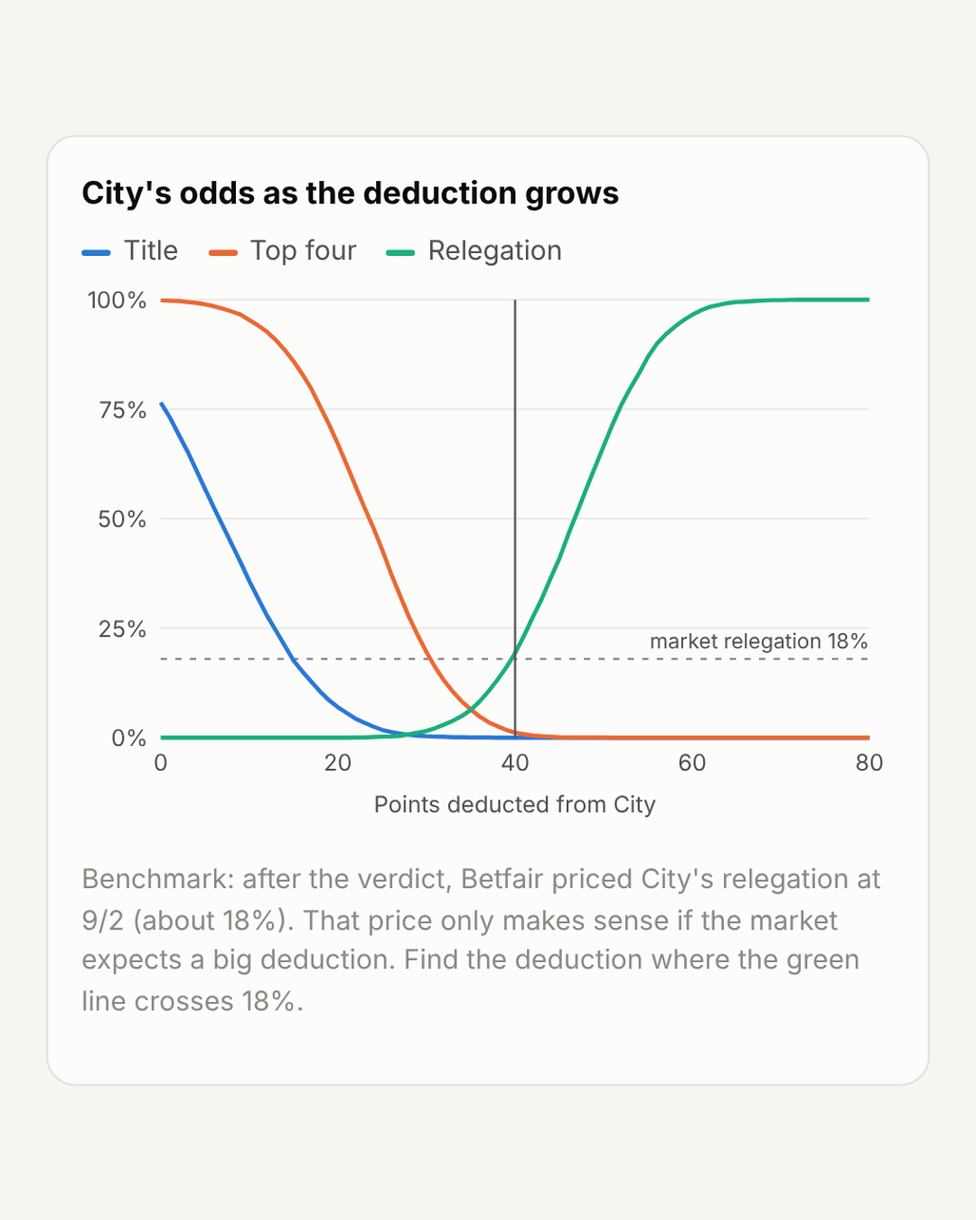
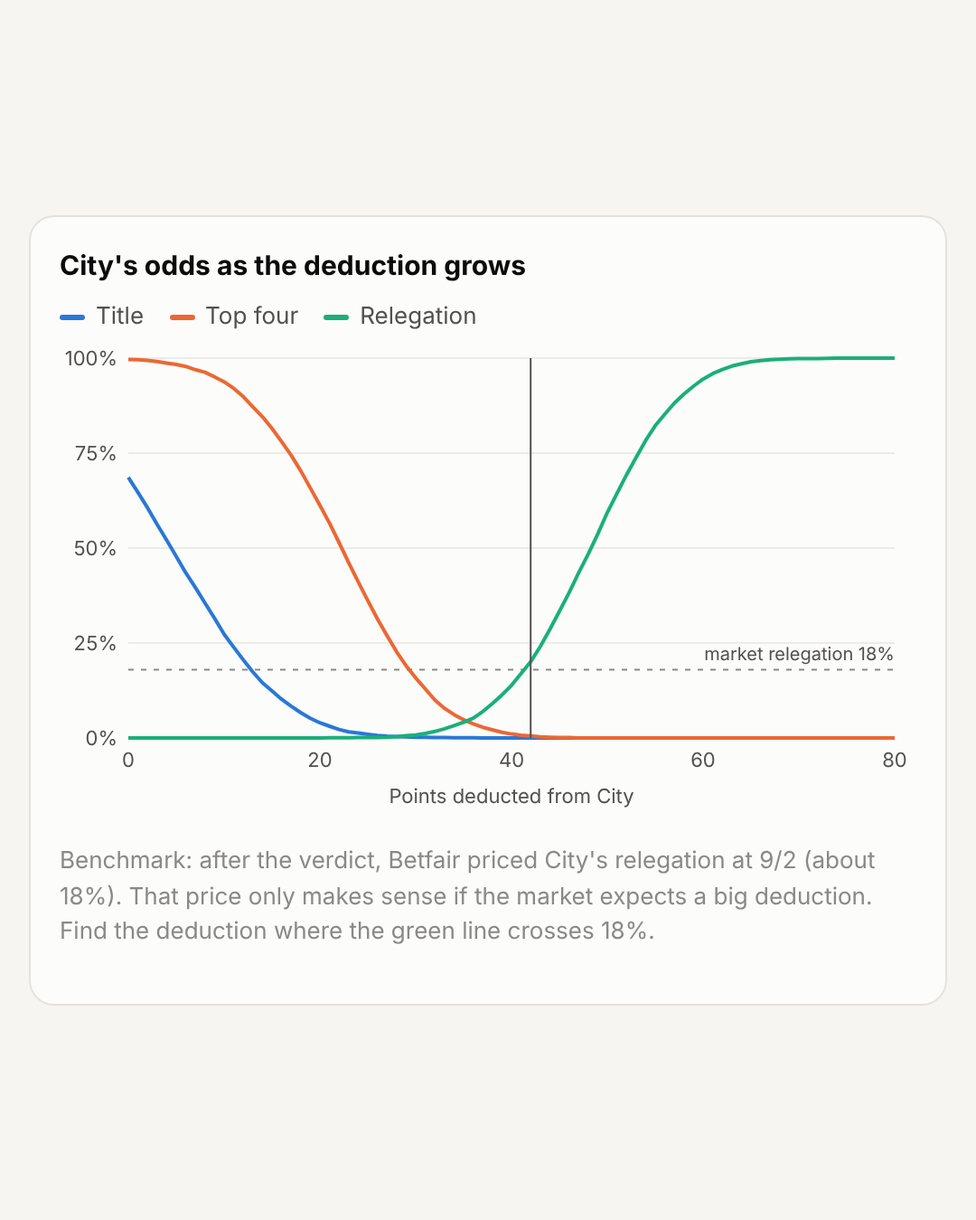
Update deduction simulator to matchweek 7 and close out scoreboard results
Simulator: table after MW7 (City 21, Arsenal 18), ratings refit on MW7 + MW8 odds, MW8 real fixtures, regenerated images. Scoreboard: final results for all 33 logged picks, ALCS G4 moved to its rain-delayed date.

Claude-Session: https://claude.ai/code/session_015VHLP84VSgbxxyaBq6iySi

diff --git a/model-scoreboard/index.html b/model-scoreboard/index.html
@@ -55,7 +55,7 @@ button{font:inherit;font-weight:700;font-size:13px;color:var(--txt);background:v
 <p class="note"><b>How it's scored.</b> Each pick is logged before kickoff. "Hit rate" = the model's most likely outcome happened (draws count for soccer). "Skill" = how much better its probabilities were than a naive home-win-rate guess (Brier score; soccer uses the 3-way RPS, as in the backtests). The white marker on each bar is that model's backtested skill; filling past it means it's beating its own track record. Soccer picks marked BACKDATED (10–12 Oct) were generated on 11 Oct using only data from before the 10 Oct kickoffs — no results from that weekend went in — so they're fair predictions, just not logged in advance like the rest. A handful of games is mostly luck — read it as a scoreboard, not proof. Live scores: ESPN's public scoreboard feed, refreshed every 60 seconds while this page is open.</p>
 </main>
 <script>
-const DATA = {"games":[{"sport":"NFL","date":"2026-10-11","home":"LAC","away":"DEN","label":"DEN @ LAC","p":[0.43618694584839,0.56381305415161],"mkt":[0.3690596562184025,0.6309403437815975],"snap":{"state":"post","hs":17,"as":23,"detail":"Final"}},{"sport":"NFL","date":"2026-10-11","home":"ARI","away":"DET","label":"DET @ ARI","p":[0.3610490859684876,0.6389509140315124],"mkt":[0.30423004792665137,0.6957699520733487],"snap":{"state":"post","hs":21,"as":45,"detail":"Final"}},{"sport":"NFL","date":"2026-10-11","home":"SEA","away":"SF","label":"SF @ SEA","p":[0.5711223757139174,0.42887762428608256],"mkt":[0.5996387718242023,0.40036122817579767],"snap":{"state":"post","hs":29,"as":32,"detail":"Final"}},{"sport":"NFL","date":"2026-10-11","home":"ATL","away":"BAL","label":"BAL @ ATL","p":[0.4159232285502734,0.5840767714497266],"mkt":[0.6092362344582594,0.39076376554174064],"snap":{"state":"post","hs":23,"as":30,"detail":"Final"}},{"sport":"NFL","date":"2026-10-12","home":"LAR","away":"BUF","label":"BUF @ LA","p":[0.5541986401184689,0.44580135988153113],"mkt":[0.6092362344582594,0.39076376554174064],"snap":{"state":"post","hs":34,"as":37,"detail":"Final"}},{"sport":"MLB","date":"2026-10-11","home":"MIL","away":"LAD","label":"NLCS G1 \u00b7 LAD @ MIL","p":[0.5397274817394615,0.4602725182605385],"snap":{"state":"post","hs":2,"as":1,"detail":"Final"}},{"sport":"MLB","date":"2026-10-12","home":"MIL","away":"LAD","label":"NLCS G2 \u00b7 LAD @ MIL","p":[0.5397274817394615,0.4602725182605385],"snap":{"state":"post","hs":7,"as":4,"detail":"Final"}},{"sport":"MLB","date":"2026-10-12","home":"TB","away":"CLE","label":"ALCS G1 \u00b7 CLE @ TB","p":[0.5736785067166985,0.4263214932833015],"snap":{"state":"post","hs":3,"as":7,"detail":"Final"}},{"sport":"MLB","date":"2026-10-13","home":"TB","away":"CLE","label":"ALCS G2 \u00b7 CLE @ TB","p":[0.5736785067166985,0.4263214932833015],"snap":{"state":"pre","hs":null,"as":null,"detail":""}},{"sport":"MLB","date":"2026-10-14","home":"LAD","away":"MIL","label":"NLCS G3 \u00b7 MIL @ LAD","p":[0.520177634954967,0.47982236504503295],"snap":{"state":"pre","hs":null,"as":null,"detail":""}},{"sport":"MLB","date":"2026-10-15","home":"LAD","away":"MIL","label":"NLCS G4 \u00b7 MIL @ LAD","p":[0.520177634954967,0.47982236504503295],"snap":{"state":"pre","hs":null,"as":null,"detail":""}},{"sport":"MLB","date":"2026-10-15","home":"CLE","away":"TB","label":"ALCS G3 \u00b7 TB @ CLE","p":[0.48578498023542893,0.5142150197645711],"snap":{"state":"pre","hs":null,"as":null,"detail":""}},{"sport":"MLB","date":"2026-10-16","home":"CLE","away":"TB","label":"ALCS G4 \u00b7 TB @ CLE","p":[0.48578498023542893,0.5142150197645711],"snap":{"state":"pre","hs":null,"as":null,"detail":""}},{"sport":"EPL","date":"2026-10-10","home":"Man United","away":"Tottenham","label":"Man United v Tottenham","p":[0.5776567645428594,0.24293384085505176,0.1794093946020887],"homeAlias":["Manchester United","Man United","Man Utd"],"awayAlias":["Tottenham Hotspur","Tottenham","Spurs"],"backdated":true,"snap":{"state":"post","hs":1,"as":1,"detail":"Final"}},{"sport":"EPL","date":"2026-10-10","home":"Sunderland","away":"Brighton","label":"Sunderland v Brighton","p":[0.2958006445758089,0.2638575508928056,0.44034180453138544],"homeAlias":["Sunderland"],"awayAlias":["Brighton & Hove Albion","Brighton"],"backdated":true,"snap":{"state":"post","hs":0,"as":2,"detail":"Final"}},{"sport":"EPL","date":"2026-10-10","home":"Ipswich","away":"Fulham","label":"Ipswich v Fulham","p":[0.3179053455729962,0.27956723050251775,0.402527423924486],"homeAlias":["Ipswich Town","Ipswich"],"awayAlias":["Fulham"],"backdated":true,"snap":{"state":"post","hs":2,"as":1,"detail":"Final"}},{"sport":"EPL","date":"2026-10-10","home":"Chelsea","away":"Bournemouth","label":"Chelsea v Bournemouth","p":[0.4100751831695971,0.2728282983578527,0.31709651847255016],"homeAlias":["Chelsea"],"awayAlias":["AFC Bournemouth","Bournemouth"],"backdated":true,"snap":{"state":"post","hs":5,"as":1,"detail":"Final"}},{"sport":"EPL","date":"2026-10-10","home":"Aston Villa","away":"Brentford","label":"Aston Villa v Brentford","p":[0.38659155693282415,0.28887805529448846,0.3245303877726874],"homeAlias":["Aston Villa"],"awayAlias":["Brentford"],"backdated":true,"snap":{"state":"post","hs":2,"as":2,"detail":"Final"}},{"sport":"EPL","date":"2026-10-10","home":"Arsenal","away":"Leeds","label":"Arsenal v Leeds","p":[0.6881947515461766,0.20711317617778502,0.10469207227603841],"homeAlias":["Arsenal"],"awayAlias":["Leeds United","Leeds"],"backdated":true,"snap":{"state":"post","hs":2,"as":1,"detail":"Final"}},{"sport":"EPL","date":"2026-10-11","home":"Liverpool","away":"Man City","label":"Liverpool v Man City","p":[0.38887169504607233,0.26248048657069617,0.34864781838323156],"homeAlias":["Liverpool"],"awayAlias":["Manchester City","Man City"],"backdated":true,"snap":{"state":"post","hs":0,"as":3,"detail":"Final"}},{"sport":"EPL","date":"2026-10-11","home":"Hull","away":"Everton","label":"Hull v Everton","p":[0.2534389798833081,0.25975564549296015,0.48680537462373186],"homeAlias":["Hull City","Hull"],"awayAlias":["Everton"],"backdated":true,"snap":{"state":"post","hs":2,"as":2,"detail":"Final"}},{"sport":"EPL","date":"2026-10-11","home":"Crystal Palace","away":"Nott'm Forest","label":"Crystal Palace v Nott'm Forest","p":[0.4034569292809711,0.2887230157890111,0.3078200549300179],"homeAlias":["Crystal Palace"],"awayAlias":["Nottingham Forest","Nott'm Forest","Nottm Forest"],"backdated":true,"snap":{"state":"post","hs":3,"as":1,"detail":"Final"}},{"sport":"EPL","date":"2026-10-12","home":"Coventry","away":"Newcastle","label":"Coventry v Newcastle","p":[0.3420068167724029,0.26407963472152146,0.3939135485060757],"homeAlias":["Coventry City","Coventry"],"awayAlias":["Newcastle United","Newcastle"],"backdated":true,"snap":{"state":"post","hs":4,"as":1,"detail":"Final"}},{"sport":"EPL","date":"2026-10-17","home":"Newcastle","away":"Aston Villa","label":"Newcastle v Aston Villa","p":[0.413562610179653,0.28918240201902046,0.2972549878013266],"homeAlias":["Newcastle United","Newcastle"],"awayAlias":["Aston Villa"]},{"sport":"EPL","date":"2026-10-17","home":"Man City","away":"Ipswich","label":"Man City v Ipswich","p":[0.7625680365206376,0.16780593897761403,0.06962602450174829],"homeAlias":["Manchester City","Man City"],"awayAlias":["Ipswich Town","Ipswich"]},{"sport":"EPL","date":"2026-10-17","home":"Fulham","away":"Hull","label":"Fulham v Hull","p":[0.5988247092008374,0.24137699868667767,0.15979829211248484],"homeAlias":["Fulham"],"awayAlias":["Hull City","Hull"]},{"sport":"EPL","date":"2026-10-17","home":"Brentford","away":"Liverpool","label":"Brentford v Liverpool","p":[0.329748011977613,0.25037100363587894,0.419880984386508],"homeAlias":["Brentford"],"awayAlias":["Liverpool"]},{"sport":"EPL","date":"2026-10-17","home":"Everton","away":"Chelsea","label":"Everton v Chelsea","p":[0.3521918569506102,0.3098018522572463,0.3380062907921434],"homeAlias":["Everton"],"awayAlias":["Chelsea"]},{"sport":"EPL","date":"2026-10-18","home":"Nott'm Forest","away":"Arsenal","label":"Nott'm Forest v Arsenal","p":[0.20251035527927086,0.25902759008137266,0.5384620546393565],"homeAlias":["Nottingham Forest","Nott'm Forest","Nottm Forest"],"awayAlias":["Arsenal"]},{"sport":"EPL","date":"2026-10-18","home":"Leeds","away":"Man United","label":"Leeds v Man United","p":[0.3492312508496449,0.2721058019007721,0.378662947249583],"homeAlias":["Leeds United","Leeds"],"awayAlias":["Manchester United","Man United","Man Utd"]},{"sport":"EPL","date":"2026-10-18","home":"Brighton","away":"Crystal Palace","label":"Brighton v Crystal Palace","p":[0.609449705228149,0.2194520940949486,0.17109820067690235],"homeAlias":["Brighton & Hove Albion","Brighton"],"awayAlias":["Crystal Palace"]},{"sport":"EPL","date":"2026-10-18","home":"Bournemouth","away":"Sunderland","label":"Bournemouth v Sunderland","p":[0.5471304212462732,0.25963632423519684,0.19323325451853],"homeAlias":["AFC Bournemouth","Bournemouth"],"awayAlias":["Sunderland"]},{"sport":"EPL","date":"2026-10-19","home":"Tottenham","away":"Coventry","label":"Tottenham v Coventry","p":[0.5308224763793596,0.255881646957799,0.21329587666284136],"homeAlias":["Tottenham Hotspur","Tottenham","Spurs"],"awayAlias":["Coventry City","Coventry"]}],"backtest":{"EPL":{"model":13.932382595760945,"market":15.124422123352804},"NFL":{"model":11.016982057212156,"market":15.696468345735038},"MLB":{"model":2.163976929721866,"market":2.9306156096931364}},"snapshot":"2026-10-13T14:01:00-04:00"};
+const DATA = {"games":[{"sport":"NFL","date":"2026-10-11","home":"LAC","away":"DEN","label":"DEN @ LAC","p":[0.43618694584839,0.56381305415161],"mkt":[0.3690596562184025,0.6309403437815975],"snap":{"state":"post","hs":17,"as":23,"detail":"Final"}},{"sport":"NFL","date":"2026-10-11","home":"ARI","away":"DET","label":"DET @ ARI","p":[0.3610490859684876,0.6389509140315124],"mkt":[0.30423004792665137,0.6957699520733487],"snap":{"state":"post","hs":21,"as":45,"detail":"Final"}},{"sport":"NFL","date":"2026-10-11","home":"SEA","away":"SF","label":"SF @ SEA","p":[0.5711223757139174,0.42887762428608256],"mkt":[0.5996387718242023,0.40036122817579767],"snap":{"state":"post","hs":29,"as":32,"detail":"Final"}},{"sport":"NFL","date":"2026-10-11","home":"ATL","away":"BAL","label":"BAL @ ATL","p":[0.4159232285502734,0.5840767714497266],"mkt":[0.6092362344582594,0.39076376554174064],"snap":{"state":"post","hs":23,"as":30,"detail":"Final"}},{"sport":"NFL","date":"2026-10-12","home":"LAR","away":"BUF","label":"BUF @ LA","p":[0.5541986401184689,0.44580135988153113],"mkt":[0.6092362344582594,0.39076376554174064],"snap":{"state":"post","hs":34,"as":37,"detail":"Final"}},{"sport":"MLB","date":"2026-10-11","home":"MIL","away":"LAD","label":"NLCS G1 \u00b7 LAD @ MIL","p":[0.5397274817394615,0.4602725182605385],"snap":{"state":"post","hs":2,"as":1,"detail":"Final"}},{"sport":"MLB","date":"2026-10-12","home":"MIL","away":"LAD","label":"NLCS G2 \u00b7 LAD @ MIL","p":[0.5397274817394615,0.4602725182605385],"snap":{"state":"post","hs":7,"as":4,"detail":"Final"}},{"sport":"MLB","date":"2026-10-12","home":"TB","away":"CLE","label":"ALCS G1 \u00b7 CLE @ TB","p":[0.5736785067166985,0.4263214932833015],"snap":{"state":"post","hs":3,"as":7,"detail":"Final"}},{"sport":"MLB","date":"2026-10-13","home":"TB","away":"CLE","label":"ALCS G2 \u00b7 CLE @ TB","p":[0.5736785067166985,0.4263214932833015],"snap":{"state":"post","hs":3,"as":1,"detail":"Final"}},{"sport":"MLB","date":"2026-10-14","home":"LAD","away":"MIL","label":"NLCS G3 \u00b7 MIL @ LAD","p":[0.520177634954967,0.47982236504503295],"snap":{"state":"post","hs":2,"as":6,"detail":"Final"}},{"sport":"MLB","date":"2026-10-15","home":"LAD","away":"MIL","label":"NLCS G4 \u00b7 MIL @ LAD","p":[0.520177634954967,0.47982236504503295],"snap":{"state":"post","hs":4,"as":6,"detail":"Final"}},{"sport":"MLB","date":"2026-10-15","home":"CLE","away":"TB","label":"ALCS G3 \u00b7 TB @ CLE","p":[0.48578498023542893,0.5142150197645711],"snap":{"state":"post","hs":3,"as":2,"detail":"Final"}},{"sport":"MLB","date":"2026-10-17","home":"CLE","away":"TB","label":"ALCS G4 \u00b7 TB @ CLE","p":[0.48578498023542893,0.5142150197645711],"snap":{"state":"post","hs":3,"as":7,"detail":"Final"}},{"sport":"EPL","date":"2026-10-10","home":"Man United","away":"Tottenham","label":"Man United v Tottenham","p":[0.5776567645428594,0.24293384085505176,0.1794093946020887],"homeAlias":["Manchester United","Man United","Man Utd"],"awayAlias":["Tottenham Hotspur","Tottenham","Spurs"],"backdated":true,"snap":{"state":"post","hs":1,"as":1,"detail":"Final"}},{"sport":"EPL","date":"2026-10-10","home":"Sunderland","away":"Brighton","label":"Sunderland v Brighton","p":[0.2958006445758089,0.2638575508928056,0.44034180453138544],"homeAlias":["Sunderland"],"awayAlias":["Brighton & Hove Albion","Brighton"],"backdated":true,"snap":{"state":"post","hs":0,"as":2,"detail":"Final"}},{"sport":"EPL","date":"2026-10-10","home":"Ipswich","away":"Fulham","label":"Ipswich v Fulham","p":[0.3179053455729962,0.27956723050251775,0.402527423924486],"homeAlias":["Ipswich Town","Ipswich"],"awayAlias":["Fulham"],"backdated":true,"snap":{"state":"post","hs":2,"as":1,"detail":"Final"}},{"sport":"EPL","date":"2026-10-10","home":"Chelsea","away":"Bournemouth","label":"Chelsea v Bournemouth","p":[0.4100751831695971,0.2728282983578527,0.31709651847255016],"homeAlias":["Chelsea"],"awayAlias":["AFC Bournemouth","Bournemouth"],"backdated":true,"snap":{"state":"post","hs":5,"as":1,"detail":"Final"}},{"sport":"EPL","date":"2026-10-10","home":"Aston Villa","away":"Brentford","label":"Aston Villa v Brentford","p":[0.38659155693282415,0.28887805529448846,0.3245303877726874],"homeAlias":["Aston Villa"],"awayAlias":["Brentford"],"backdated":true,"snap":{"state":"post","hs":2,"as":2,"detail":"Final"}},{"sport":"EPL","date":"2026-10-10","home":"Arsenal","away":"Leeds","label":"Arsenal v Leeds","p":[0.6881947515461766,0.20711317617778502,0.10469207227603841],"homeAlias":["Arsenal"],"awayAlias":["Leeds United","Leeds"],"backdated":true,"snap":{"state":"post","hs":2,"as":1,"detail":"Final"}},{"sport":"EPL","date":"2026-10-11","home":"Liverpool","away":"Man City","label":"Liverpool v Man City","p":[0.38887169504607233,0.26248048657069617,0.34864781838323156],"homeAlias":["Liverpool"],"awayAlias":["Manchester City","Man City"],"backdated":true,"snap":{"state":"post","hs":0,"as":3,"detail":"Final"}},{"sport":"EPL","date":"2026-10-11","home":"Hull","away":"Everton","label":"Hull v Everton","p":[0.2534389798833081,0.25975564549296015,0.48680537462373186],"homeAlias":["Hull City","Hull"],"awayAlias":["Everton"],"backdated":true,"snap":{"state":"post","hs":2,"as":2,"detail":"Final"}},{"sport":"EPL","date":"2026-10-11","home":"Crystal Palace","away":"Nott'm Forest","label":"Crystal Palace v Nott'm Forest","p":[0.4034569292809711,0.2887230157890111,0.3078200549300179],"homeAlias":["Crystal Palace"],"awayAlias":["Nottingham Forest","Nott'm Forest","Nottm Forest"],"backdated":true,"snap":{"state":"post","hs":3,"as":1,"detail":"Final"}},{"sport":"EPL","date":"2026-10-12","home":"Coventry","away":"Newcastle","label":"Coventry v Newcastle","p":[0.3420068167724029,0.26407963472152146,0.3939135485060757],"homeAlias":["Coventry City","Coventry"],"awayAlias":["Newcastle United","Newcastle"],"backdated":true,"snap":{"state":"post","hs":4,"as":1,"detail":"Final"}},{"sport":"EPL","date":"2026-10-17","home":"Newcastle","away":"Aston Villa","label":"Newcastle v Aston Villa","p":[0.413562610179653,0.28918240201902046,0.2972549878013266],"homeAlias":["Newcastle United","Newcastle"],"awayAlias":["Aston Villa"],"snap":{"state":"post","hs":0,"as":1,"detail":"Final"}},{"sport":"EPL","date":"2026-10-17","home":"Man City","away":"Ipswich","label":"Man City v Ipswich","p":[0.7625680365206376,0.16780593897761403,0.06962602450174829],"homeAlias":["Manchester City","Man City"],"awayAlias":["Ipswich Town","Ipswich"],"snap":{"state":"post","hs":3,"as":2,"detail":"Final"}},{"sport":"EPL","date":"2026-10-17","home":"Fulham","away":"Hull","label":"Fulham v Hull","p":[0.5988247092008374,0.24137699868667767,0.15979829211248484],"homeAlias":["Fulham"],"awayAlias":["Hull City","Hull"],"snap":{"state":"post","hs":1,"as":0,"detail":"Final"}},{"sport":"EPL","date":"2026-10-17","home":"Brentford","away":"Liverpool","label":"Brentford v Liverpool","p":[0.329748011977613,0.25037100363587894,0.419880984386508],"homeAlias":["Brentford"],"awayAlias":["Liverpool"],"snap":{"state":"post","hs":1,"as":2,"detail":"Final"}},{"sport":"EPL","date":"2026-10-17","home":"Everton","away":"Chelsea","label":"Everton v Chelsea","p":[0.3521918569506102,0.3098018522572463,0.3380062907921434],"homeAlias":["Everton"],"awayAlias":["Chelsea"],"snap":{"state":"post","hs":0,"as":2,"detail":"Final"}},{"sport":"EPL","date":"2026-10-18","home":"Nott'm Forest","away":"Arsenal","label":"Nott'm Forest v Arsenal","p":[0.20251035527927086,0.25902759008137266,0.5384620546393565],"homeAlias":["Nottingham Forest","Nott'm Forest","Nottm Forest"],"awayAlias":["Arsenal"],"snap":{"state":"post","hs":0,"as":1,"detail":"Final"}},{"sport":"EPL","date":"2026-10-18","home":"Leeds","away":"Man United","label":"Leeds v Man United","p":[0.3492312508496449,0.2721058019007721,0.378662947249583],"homeAlias":["Leeds United","Leeds"],"awayAlias":["Manchester United","Man United","Man Utd"],"snap":{"state":"post","hs":1,"as":1,"detail":"Final"}},{"sport":"EPL","date":"2026-10-18","home":"Brighton","away":"Crystal Palace","label":"Brighton v Crystal Palace","p":[0.609449705228149,0.2194520940949486,0.17109820067690235],"homeAlias":["Brighton & Hove Albion","Brighton"],"awayAlias":["Crystal Palace"],"snap":{"state":"post","hs":5,"as":0,"detail":"Final"}},{"sport":"EPL","date":"2026-10-18","home":"Bournemouth","away":"Sunderland","label":"Bournemouth v Sunderland","p":[0.5471304212462732,0.25963632423519684,0.19323325451853],"homeAlias":["AFC Bournemouth","Bournemouth"],"awayAlias":["Sunderland"],"snap":{"state":"post","hs":2,"as":0,"detail":"Final"}},{"sport":"EPL","date":"2026-10-19","home":"Tottenham","away":"Coventry","label":"Tottenham v Coventry","p":[0.5308224763793596,0.255881646957799,0.21329587666284136],"homeAlias":["Tottenham Hotspur","Tottenham","Spurs"],"awayAlias":["Coventry City","Coventry"],"snap":{"state":"post","hs":3,"as":1,"detail":"Final"}}],"backtest":{"EPL":{"model":13.932382595760945,"market":15.124422123352804},"NFL":{"model":11.016982057212156,"market":15.696468345735038},"MLB":{"model":2.163976929721866,"market":2.9306156096931364}},"snapshot":"2026-10-21T11:30:00-04:00"};
 const SPORTS = {EPL:{name:"Soccer",full:"EPL · model v5",color:"var(--soc)",url:"soccer/eng.1",base:[0.44,0.25,0.31]},
                 NFL:{name:"NFL",full:"Points-rating model",color:"var(--nfl)",url:"football/nfl",base:[0.565,0.435]},
                 MLB:{name:"MLB",full:"Pythagorean model",color:"var(--mlb)",url:"baseball/mlb",base:[0.53,0.47]}};

diff --git a/city-asterisk-tables/index.html b/city-asterisk-tables/index.html
@@ -116,7 +116,7 @@ svg text{fill:var(--text2);font-size:11px}
 <section id="sim">
   <div class="card">
     <h2>2026‑27: deduction simulator</h2>
-    <p class="note" style="margin:0">Table after 6 games (City 18 pts, top). 10,000 simulated finishes of the remaining 32 games. Data as of 14 Oct 2026.</p>
+    <p class="note" style="margin:0">Table after 7 games (City 21 pts, top, 3 clear of Arsenal). 10,000 simulated finishes of the remaining 31 games. Data as of 20 Oct 2026.</p>
     <label class="sl" for="sded">Points deducted from City this season: <b id="sdedv">0</b> pts</label>
     <input id="sded" type="range" min="0" max="80" step="1" value="0">
     <div class="stats">
@@ -158,15 +158,15 @@ svg text{fill:var(--text2);font-size:11px}
     </ul>
     <h3>2026‑27 simulator</h3>
     <ul>
-      <li>Each team gets one strength rating. It blends current points per game (shrunk toward the league average, so six games don't overstate form) with the bookmaker win/draw/loss odds for this weekend's matchweek‑7 fixtures.</li>
+      <li>Each team gets one strength rating. It blends current points per game (shrunk toward the league average, so seven games don't overstate form) with bookmaker win/draw/loss odds for the last two rounds (matchweeks 7 and 8), so one awkward fixture can't swing a rating.</li>
       <li>Match outcomes use a Davidson (Bradley‑Terry with draws) model with a home-advantage term. All parameters are fitted to those odds.</li>
-      <li>Matchweek 7 uses the real fixtures. The remaining 31 games are drawn against random opponents, home or away at 50/50, because the full fixture list wasn't available. Each team is simulated independently, so results are a good estimate rather than an exact schedule replay.</li>
+      <li>Matchweek 8 uses the real fixtures. The remaining 30 games are drawn against random opponents, home or away at 50/50, because the full fixture list wasn't available. Each team is simulated independently, so results are a good estimate rather than an exact schedule replay.</li>
       <li>The deduction is applied to City's final total; their form is assumed unaffected.</li>
     </ul>
     <h3>Sources</h3>
     <ul>
       <li>Verdict reporting: The Athletic / The Times via Reuters; Sports Mole; Northeast Times (betting odds).</li>
-      <li>Current table and matchweek‑7 odds: Sportradar feed, 14 Oct 2026.</li>
+      <li>Current table: Football Web Pages, 19 Oct 2026. Matchweek‑8 odds: bets.co.za round‑8 preview, 20 Oct 2026.</li>
       <li>Historical tables: official Premier League final standings.</li>
     </ul>
   </div>
@@ -244,11 +244,11 @@ document.getElementById('hded').oninput=e=>{hded=+e.target.value;document.getEle
 renderHist();
 
 /* ---------- simulator ---------- */
-const R={"teams":[{"code":"MCI","name":"Man City","pts":18,"r":1.291},{"code":"ARS","name":"Arsenal","pts":15,"r":0.9764},{"code":"BRI","name":"Brighton","pts":13,"r":0.5631},{"code":"BRE","name":"Brentford","pts":10,"r":0.0264},{"code":"EVE","name":"Everton","pts":10,"r":-0.1191},{"code":"CFC","name":"Chelsea","pts":10,"r":0.5157},{"code":"LEE","name":"Leeds","pts":9,"r":-0.1458},{"code":"HUL","name":"Hull City","pts":9,"r":-0.3053},{"code":"LFC","name":"Liverpool","pts":9,"r":0.2685},{"code":"IPS","name":"Ipswich","pts":9,"r":-0.1825},{"code":"NEW","name":"Newcastle","pts":8,"r":-0.1924},{"code":"CRY","name":"Crystal Palace","pts":7,"r":-0.1665},{"code":"MUN","name":"Man United","pts":6,"r":0.0339},{"code":"COV","name":"Coventry","pts":6,"r":-0.6306},{"code":"NFO","name":"Nott'm Forest","pts":5,"r":-0.5798},{"code":"AVL","name":"Aston Villa","pts":5,"r":-0.1228},{"code":"SUN","name":"Sunderland","pts":4,"r":-0.4376},{"code":"BOU","name":"Bournemouth","pts":3,"r":-0.4878},{"code":"TOT","name":"Tottenham","pts":3,"r":-0.0915},{"code":"FUL","name":"Fulham","pts":2,"r":-0.2133}],"h":0.5184,"nu":0.6563};
-const MW7=[["EVE","CFC"],["BRE","LFC"],["FUL","HUL"],["MCI","IPS"],["NEW","AVL"],["BOU","SUN"],["BRI","CRY"],["LEE","MUN"],["NFO","ARS"],["TOT","COV"]];
-const T=R.teams,NT=T.length,NS=10000,REM=31;
+const R={"teams":[{"code":"MCI","name":"Man City","pts":21,"r":1.2912},{"code":"ARS","name":"Arsenal","pts":18,"r":1.1061},{"code":"BRI","name":"Brighton","pts":16,"r":0.5335},{"code":"CFC","name":"Chelsea","pts":13,"r":0.5427},{"code":"LFC","name":"Liverpool","pts":12,"r":0.5069},{"code":"BRE","name":"Brentford","pts":10,"r":0.3353},{"code":"LEE","name":"Leeds","pts":10,"r":-0.1188},{"code":"EVE","name":"Everton","pts":10,"r":-0.0574},{"code":"HUL","name":"Hull City","pts":9,"r":-0.6199},{"code":"IPS","name":"Ipswich","pts":9,"r":-0.5539},{"code":"NEW","name":"Newcastle","pts":8,"r":-0.0378},{"code":"AVL","name":"Aston Villa","pts":8,"r":-0.0125},{"code":"MUN","name":"Man United","pts":7,"r":-0.0599},{"code":"CRY","name":"Crystal Palace","pts":7,"r":-0.4347},{"code":"BOU","name":"Bournemouth","pts":6,"r":-0.4378},{"code":"TOT","name":"Tottenham","pts":6,"r":-0.0247},{"code":"COV","name":"Coventry","pts":6,"r":-0.7972},{"code":"FUL","name":"Fulham","pts":5,"r":-0.2111},{"code":"NFO","name":"Nott'm Forest","pts":5,"r":-0.3541},{"code":"SUN","name":"Sunderland","pts":4,"r":-0.5959}],"h":0.3305,"nu":0.6874};
+const MW8=[["IPS","NFO"],["AVL","MCI"],["ARS","EVE"],["COV","FUL"],["CFC","TOT"],["CRY","NEW"],["HUL","BRE"],["LFC","BRI"],["MUN","BOU"],["SUN","LEE"]];
+const T=R.teams,NT=T.length,NS=10000,REM=30;
 const idx=Object.fromEntries(T.map((t,i)=>[t.code,i]));
-let seed=20261014;function rnd(){seed=(seed*1664525+1013904223)>>>0;return seed/4294967296}
+let seed=20261021;function rnd(){seed=(seed*1664525+1013904223)>>>0;return seed/4294967296}
 function outcome(i,j,home){ // points for team i vs j
   const a=Math.exp(T[i].r+(home?R.h:0)),b=Math.exp(T[j].r+(home?0:R.h)),d=R.nu*Math.sqrt(a*b),s=a+b+d,u=rnd()*s;
   return u<a?3:(u<a+d?1:0);
@@ -256,7 +256,7 @@ function outcome(i,j,home){ // points for team i vs j
 const FP=new Float32Array(NS*NT); // final points (+tiny noise for tie-break)
 for(let s=0;s<NS;s++){
   const pts=T.map(t=>t.pts);
-  MW7.forEach(([h,a])=>{const i=idx[h],j=idx[a];const pi=outcome(i,j,true);pts[i]+=pi;pts[j]+=pi===3?0:pi===1?1:3});
+  MW8.forEach(([h,a])=>{const i=idx[h],j=idx[a];const pi=outcome(i,j,true);pts[i]+=pi;pts[j]+=pi===3?0:pi===1?1:3});
   for(let i=0;i<NT;i++){for(let g=0;g<REM;g++){let j=Math.floor(rnd()*(NT-1));if(j>=i)j++;pts[i]+=outcome(i,j,rnd()<.5)}}
   for(let i=0;i<NT;i++)FP[s*NT+i]=pts[i]+rnd()*0.01;
 }

diff --git a/city-asterisk-tables/model/fit_ratings.py b/city-asterisk-tables/model/fit_ratings.py
@@ -1,11 +1,16 @@
+# Table after matchweek 7 (results to 19 Oct 2026); MW8 odds via bets.co.za round-8 preview, 20 Oct 2026
 import numpy as np, json
 from scipy.optimize import minimize
-T=[("MCI","Manchester City",6,0,0),("ARS","Arsenal",5,0,1),("BRI","Brighton",4,1,1),("BRE","Brentford",2,4,0),("EVE","Everton",2,4,0),("CFC","Chelsea",3,1,2),("LEE","Leeds",2,3,1),("HUL","Hull City",2,3,1),("LFC","Liverpool",2,3,1),("IPS","Ipswich",3,0,3),("NEW","Newcastle",2,2,2),("CRY","Crystal Palace",2,1,3),("MUN","Man United",1,3,2),("COV","Coventry",2,0,4),("NFO","Nott'm Forest",1,2,3),("AVL","Aston Villa",1,2,3),("SUN","Sunderland",1,1,4),("BOU","Bournemouth",0,3,3),("TOT","Tottenham",0,3,3),("FUL","Fulham",0,2,4)]
+T=[("MCI","Manchester City",7,0,0),("ARS","Arsenal",6,0,1),("BRI","Brighton",5,1,1),("CFC","Chelsea",4,1,2),("LFC","Liverpool",3,3,1),("BRE","Brentford",2,4,1),("LEE","Leeds",2,4,1),("EVE","Everton",2,4,1),("HUL","Hull City",2,3,2),("IPS","Ipswich",3,0,4),("NEW","Newcastle",2,2,3),("AVL","Aston Villa",2,2,3),("MUN","Man United",1,4,2),("CRY","Crystal Palace",2,1,4),("BOU","Bournemouth",1,3,3),("TOT","Tottenham",1,3,3),("COV","Coventry",2,0,5),("FUL","Fulham",1,2,4),("NFO","Nott'm Forest",1,2,4),("SUN","Sunderland",1,1,5)]
 idx={t[0]:i for i,t in enumerate(T)}
-pts=np.array([3*w+d for _,_,w,d,l in T]);gp=6
+pts=np.array([3*w+d for _,_,w,d,l in T]);gp=7
 k=10; mean=1.37
 shr=(pts+k*mean)/(gp+k); z=shr-shr.mean()
-M=[("EVE","CFC",30.3,25.5,44.2),("BRE","LFC",39.9,25.4,34.7),("FUL","HUL",55.3,24,20.7),("MCI","IPS",79.1,12.8,8.1),("NEW","AVL",42.7,25.7,31.6),("BOU","SUN",45.8,26.6,27.6),("BRI","CRY",62.2,20.9,16.9),("LEE","MUN",39.6,26.2,34.2),("NFO","ARS",15.9,23.1,61),("TOT","COV",65.4,19.5,15.1)]
+# Matchweek 8 (23-25 Oct 2026) bookmaker odds, overround removed by normalising implied probabilities
+M=[('IPS', 'NFO', 33.3, 28.4, 38.3), ('AVL', 'MCI', 22.9, 24.1, 53.1), ('ARS', 'EVE', 64.4, 20.7, 14.9), ('COV', 'FUL', 31.4, 27.1, 41.6), ('CFC', 'TOT', 54.6, 23.7, 21.7), ('CRY', 'NEW', 33.9, 25.7, 40.4), ('HUL', 'BRE', 22.1, 23.9, 54.0), ('LFC', 'BRI', 46.3, 25.0, 28.8), ('MUN', 'BOU', 51.9, 23.7, 24.4), ('SUN', 'LEE', 33.1, 28.8, 38.0)]
+# Matchweek 7 odds (Sportradar, 14 Oct 2026), kept so the fit uses two rounds of prices instead of one
+M7=[("EVE","CFC",30.3,25.5,44.2),("BRE","LFC",39.9,25.4,34.7),("FUL","HUL",55.3,24,20.7),("MCI","IPS",79.1,12.8,8.1),("NEW","AVL",42.7,25.7,31.6),("BOU","SUN",45.8,26.6,27.6),("BRI","CRY",62.2,20.9,16.9),("LEE","MUN",39.6,26.2,34.2),("NFO","ARS",15.9,23.1,61),("TOT","COV",65.4,19.5,15.1)]
+M=M+M7
 def probs(ri,rj,h,nu):
     a=np.exp(ri+h);b=np.exp(rj);d=nu*np.sqrt(a*b);s=a+b+d
     return np.array([a/s,d/s,b/s])

diff --git a/city-asterisk-tables/README.md b/city-asterisk-tables/README.md
@@ -26,24 +26,26 @@ Key findings:
 
 ## 2. 2026–27 deduction simulator
 
-This section runs a Monte Carlo of the current season: 10,000 simulated finishes from the table after matchweek 6, with City top on 18 points.
+This section runs a Monte Carlo of the current season: 10,000 simulated finishes from the table after matchweek 7 (updated 20 Oct 2026), with City top on 21 points, 3 clear of Arsenal.
 
 | Deduction | Title | Top four | Relegation |
 |---|---|---|---|
-| 0 | 77% | 100% | 0% |
-| −10 | 36% | 95% | 0% |
-| −20 | 7% | 67% | 0% |
-| −30 | 0% | 20% | 2% |
-| −40 | 0% | 1% | 19% |
-| −50 | 0% | 0% | 67% |
+| 0 | 69% | 100% | 0% |
+| −10 | 27% | 94% | 0% |
+| −20 | 4% | 61% | 0% |
+| −30 | 0% | 16% | 1% |
+| −40 | 0% | 1% | 14% |
+| −50 | 0% | 0% | 59% |
 
-After the verdict, Betfair priced City's relegation at 9/2 (about 18%). In this model, that price only holds with a deduction of roughly **40 points**.
+After the verdict, Betfair priced City's relegation at 9/2 (about 18%). In this model, that price only holds with a deduction of roughly **42 points**.
+
+City won again in matchweek 7 and their title chance still fell from 77% to 69%. Arsenal's rating rose on the latest prices, and with a round gone there's less season left for City's edge to compound.
 
 ## Method
 
-- **Team ratings** (`model/fit_ratings.py`): one strength rating per team. Each rating blends current points per game, shrunk toward the league average, with bookmaker win/draw/loss odds for the matchweek‑7 fixtures. The fit is a penalized KL-divergence objective solved with SciPy.
+- **Team ratings** (`model/fit_ratings.py`): one strength rating per team. Each rating blends current points per game, shrunk toward the league average, with bookmaker win/draw/loss odds for the last two rounds (matchweeks 7 and 8). Pooling two rounds stops one tough away fixture from swinging a team's rating. The fit is a penalized KL-divergence objective solved with SciPy.
 - **Match model:** Davidson (Bradley‑Terry with draws), including a home-advantage term.
-- **Simulation:** runs in the browser in JavaScript. Matchweek 7 uses the real fixtures. The remaining 31 games are played against random opponents, home or away at 50/50, and each team is simulated independently.
+- **Simulation:** runs in the browser in JavaScript. Matchweek 8 uses the real fixtures. The remaining 30 games are played against random opponents, home or away at 50/50, and each team is simulated independently.
 - **Historical ties:** teams level on points keep their original finishing order. This is an approximation of goal difference.
 
 These are hypothetical scenarios, not predictions of the independent commission's ruling.
@@ -51,7 +53,8 @@ These are hypothetical scenarios, not predictions of the independent commission'
 ## Data sources
 
 - Historical tables: official Premier League final standings, 2009–10 to 2017–18
-- 2026–27 table and odds: Sportradar feed, 14 Oct 2026
+- 2026–27 table: Football Web Pages, after matchweek 7 (19 Oct 2026)
+- Odds: matchweek 7 from Sportradar (14 Oct 2026); matchweek 8 from the bets.co.za round-8 preview (20 Oct 2026), overround removed
 - Verdict and betting context: The Athletic / The Times via Reuters, Sports Mole, Northeast Times
 
 ## Stack
